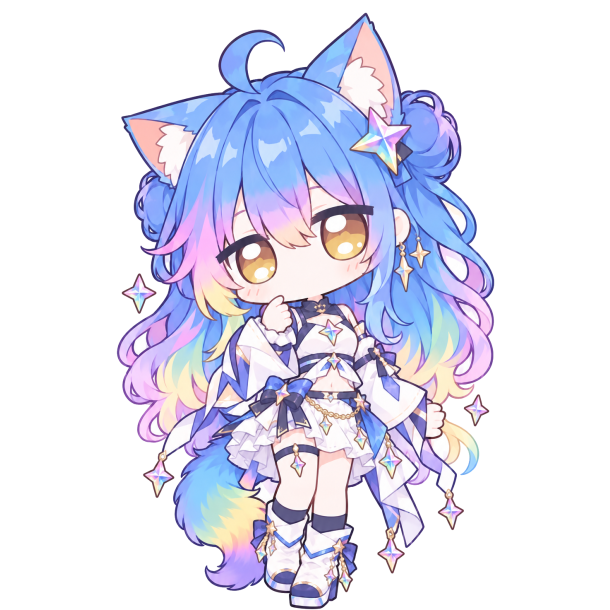
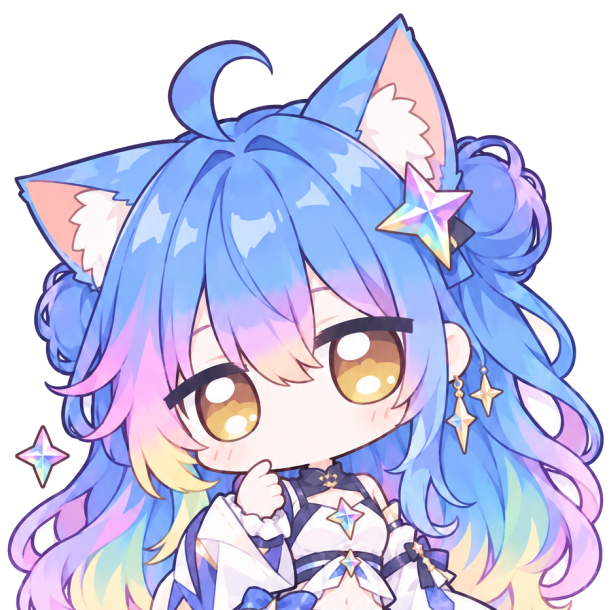
feat(role): 哈基米改成半身取景 + 彩色渐变配色（装饰件）
- 立绘重新裁切：按其余内置角色的取景（头 + 上胸的**半身**，内容近正方形，
  610×610 画布、内容高 98%、底对齐）重做 assets/gemini.png——原先那张是
  379×598 的全身像，与其它角色的观感不一致。裁切下界用「内容刚变成正方形」
  的那一行定（头 + 上胸），抠底仍走边缘泛洪（角色内部的白色衣物保留）。
- 彩色渐变配色：新增 ROLE_INK_GRADIENT（按角色 id 声明，浅/深两档色标数组），
  哈基米的色标取自她自己的发色——从新给的全身参考图按色相分桶采样，沿角色配色
  顺序排成 蓝 → 紫 → 粉 → 黄（浅 #7cbfef→#76a1eb→#957ac4→#d798e2→#f2d39b，
  深档同色相提亮）。
- **只有装饰件吃渐变**：气泡描边（气泡 SVG 内新增 zcwInkGrad，applyBubbleInk
  写色标并把 --zcw-bubble-ink 换成 url(#zcwInkGrad)）、额度卡进度条、菜单按钮
  条纹、勾选框填充、滑块圆点、角色行圆点与配色弹层色板。正文与各档描边/小字
  仍走 inkPairOf 的实色（渐变不能作 color，正文还要按 4.5:1 派生——与 U31
  「正文 vs 装饰件」的既有拆分一致）。填充一律「实色兜底 + background-image
  长属性」，保证不支持时观感不变；qbar 的琥珀/红档用 shorthand 覆盖，正好保住
  警告与限流语义。
- 手动优先：用户在配色弹层给某角色定过色（inkOverrides 有该角色）时整条渐变
  不生效，回实色；弹层里只要该档还是内置值，色板就显示渐变（与生效值一致）。
- 测试：selftest 337（新增 3 条：色标齐备合法且确实是渐变、只有内置角色能声明、
  接线只进装饰件不动正文）、smoke-ui 112（新增 2 条真机对照：哈基米 → 描边是
  url(#zcwInkGrad) 且装饰件变量是 linear-gradient；大肥鱼 → 变量清空、描边回实色）。

diff --git a/lib/widget.js b/lib/widget.js
@@ -122,7 +122,7 @@
     '.zcwv-qcard .zcwv-qrow{display:flex;align-items:center;gap:calc(var(--zcw-u) * 14);margin:calc(var(--zcw-u) * 8) 0}',
     '.zcwv-qcard .zcwv-qname{flex:0 0 auto;width:calc(var(--zcw-u) * 132);text-align:left;font-size:calc(var(--zcw-u) * 38);font-weight:600}',
     '.zcwv-qcard .zcwv-qbar{flex:1;height:calc(var(--zcw-u) * 20);border-radius:calc(var(--zcw-u) * 10);background:var(--zcw-ink-faint);overflow:hidden}',
-    '.zcwv-qcard .zcwv-qbar i{display:block;height:100%;border-radius:inherit;background:var(--zcw-accent)}',
+    '.zcwv-qcard .zcwv-qbar i{display:block;height:100%;border-radius:inherit;background:var(--zcw-accent);background-image:var(--zcw-role-ink-grad,none)}',
     '.zcwv-qcard .zcwv-qbar i.zcwv-qamber{background:var(--zcw-amber)}',
     '.zcwv-qcard .zcwv-qbar i.zcwv-qred{background:var(--zcw-red)}',
     '.zcwv-qcard .zcwv-qpct{flex:0 0 auto;width:calc(var(--zcw-u) * 132);text-align:right;white-space:nowrap;font-size:calc(var(--zcw-u) * 42);font-weight:800;font-variant-numeric:tabular-nums}',
@@ -137,7 +137,7 @@
     // 尺寸变化自动适配
     '.zcwv-menu-btn{position:absolute;top:calc(40.55% + 4px);right:4px;width:clamp(18px,calc(var(--zcw-base) * 0.069),30px);height:clamp(18px,calc(var(--zcw-base) * 0.069),30px);box-sizing:border-box;border:1px solid var(--zcw-ink-soft);border-radius:var(--zcw-radius);background:var(--zcw-btn-bg);cursor:pointer;pointer-events:none;display:flex;flex-direction:column;align-items:center;justify-content:center;gap:4px;padding:0;z-index:2;opacity:0;transition:opacity .15s ease}',
     '.zcwv-menu-btn.zcwv-menu-btn-visible{opacity:1;pointer-events:auto}',
-    '.zcwv-menu-btn span{display:block;width:14px;height:2px;background:var(--zcw-btn-bar);border-radius:1px}',
+    '.zcwv-menu-btn span{display:block;width:14px;height:2px;background:var(--zcw-btn-bar);background-image:var(--zcw-role-ink-grad,none);border-radius:1px}',
     '.zcwv-menu-btn:hover{background:var(--zcw-btn-bg-hover)}',
     // U27：菜单要有高度上限——大字号（scale 2.5）/矮窗口下顶部行会被裁出视口且
     // 无法滚动到；100vh 即页面视口（fixed 定位参照它），80px 留给按钮与上下留白
@@ -184,7 +184,7 @@
     ':root:not(.zcwv-theme-dark) .zcwv-range::-webkit-slider-runnable-track{height:4px;border-radius:2px;' +
       'background:linear-gradient(to right,var(--zcw-accent) 0 var(--zcw-range-pct,50%),rgba(0,0,0,.14) var(--zcw-range-pct,50%) 100%);' +
       'box-shadow:inset 0 0 0 1px rgba(0,0,0,.08)}',
-    ':root:not(.zcwv-theme-dark) .zcwv-range::-webkit-slider-thumb{appearance:none;-webkit-appearance:none;' +
+    ':root:not(.zcwv-theme-dark) .zcwv-range::-webkit-slider-thumb{appearance:none;-webkit-appearance:none;background-image:var(--zcw-role-ink-grad,none);' +
       'width:13px;height:13px;border-radius:50%;background:var(--zcw-accent);border:none;margin-top:-4.5px}',
     // 菜单/面板里的控件统一质感（与一级设置面板同一套 token）：圆角、主题底色、
     // hover 与 focus 反馈。原生 select 的箭头用 appearance:none 去掉后自绘——
@@ -351,7 +351,7 @@
     // 勾选态改为「角色色填充 + 底板色对勾」。深色档保持原生绘制（不动）。
     ':root:not(.zcwv-theme-dark) .zcwv-check{appearance:none;-webkit-appearance:none;position:relative;' +
       'box-sizing:border-box;border:1px solid var(--zcw-ink-input);border-radius:4px;background:var(--zcw-card)}',
-    ':root:not(.zcwv-theme-dark) .zcwv-check:checked{background:var(--zcw-accent);border-color:var(--zcw-accent)}',
+    ':root:not(.zcwv-theme-dark) .zcwv-check:checked{background:var(--zcw-accent);background-image:var(--zcw-role-ink-grad,none);border-color:var(--zcw-accent)}',
     // 对勾颜色按勾选底色的明暗二选（applyBubbleInk 写 --zcw-check-mark）：写死
     // 白勾时，kimi娘这种浅色填充上的勾约 2.3:1，勾没勾只能靠底色深浅猜
     ':root:not(.zcwv-theme-dark) .zcwv-check:checked::after{content:"";position:absolute;left:4px;top:1px;' +
@@ -853,6 +853,44 @@
     xiaoke: { light: '#d97757', dark: '#d97757' }, // 小克：陶土橘（浅/深两档同色）
     gemini: { light: '#5b7cdd', dark: '#a9c1f7' }, // 哈基米：长春花蓝发色（2026-10-15 立绘取样均值 #6a88de）
   }
+  // 角色彩色渐变（可选，2026-10-16 加）：只作用于**装饰件**——气泡描边（SVG 渐变）、
+  // 额度卡进度条、菜单按钮条纹、勾选框填充、滑块圆点、角色行圆点；正文与各档
+  // 描边/小字仍走 inkPairOf 的实色（渐变不能作 color，且正文要按 4.5:1 派生）。
+  // 用户在配色弹层给该角色定过色（inkOverrides 有该角色）时整条渐变不生效——手选优先。
+  // 色标取自角色立绘本身：哈基米按色相分桶采样她的发色（蓝 → 紫 → 粉 → 黄，
+  // 深档 = 同色相提亮，与其余角色「深色档更淡更亮」的观感一致）。
+  var ROLE_INK_GRADIENT = {
+    gemini: {
+      light: ['#7cbfef', '#76a1eb', '#957ac4', '#d798e2', '#f2d39b'],
+      dark: ['#a7d4f5', '#a5c1f2', '#b8a3d9', '#e4b5d3', '#f6e4b6'],
+    },
+  }
+  function inkGradientStops(id) {
+    if (inkOverrides[id]) return null
+    var g = ROLE_INK_GRADIENT[id]
+    if (!g) return null
+    var stops = themeIsDark() ? g.dark : g.light
+    return Array.isArray(stops) && stops.length >= 2 ? stops : null
+  }
+  function inkGradientCss(stops) {
+    return 'linear-gradient(135deg, ' + stops.join(', ') + ')'
+  }
+  // 把色标写进气泡 SVG 的 zcwInkGrad：stops 数量可以少于 defs 里的 5 个槽位，
+  // 多余的槽位统一取最后一个色（offset 也压到 100%），保证渐变首尾仍然铺满。
+  // 用 document.querySelector 而不是 bubbleBox 变量：本函数可能在气泡 DOM 建好
+  // 之前就被 applyBubbleInk 调到（初始化顺序），那时 bubbleBox 还是 undefined。
+  function paintInkGradientDefs(stops) {
+    var nodes = document.querySelectorAll('#zcwInkGrad .zcwv-inkstop')
+    if (!nodes.length) return false
+    for (var i = 0; i < nodes.length; i++) {
+      var last = i >= stops.length - 1
+      var color = last ? stops[stops.length - 1] : stops[i]
+      nodes[i].setAttribute('stop-color', color)
+      var offset = stops.length > 1 ? Math.min(i, stops.length - 1) / (stops.length - 1) : 0
+      nodes[i].setAttribute('offset', String(last ? 1 : offset))
+    }
+    return true
+  }
 
   // ---------- WCAG 对比度工具（U31） ----------
   // 浅色档整套界面的正文色直接取角色浅色墨色，而 kimi娘 #ad81ff 对白底只有
@@ -916,6 +954,15 @@
       var ink = dark ? pair.dark : pair.light
       var st = document.documentElement.style
       st.setProperty('--zcw-bubble-ink', ink)
+      // 彩色渐变角色（哈基米那种）：气泡描边改走 SVG 渐变，装饰件走 CSS 渐变变量；
+      // 正文（--zcw-bubble-text*）与各档描边仍由上面的实色派生，保证可读性
+      var gradStops = inkGradientStops(roleId)
+      if (gradStops && paintInkGradientDefs(gradStops)) {
+        st.setProperty('--zcw-bubble-ink', 'url(#zcwInkGrad)')
+        st.setProperty('--zcw-role-ink-grad', inkGradientCss(gradStops))
+      } else {
+        st.removeProperty('--zcw-role-ink-grad')
+      }
       if (dark) {
         // 深色：主文字与描边同色；小字按透明度淡化（原来就是 rgba 淡出）
         st.setProperty('--zcw-bubble-text', ink)
@@ -1272,6 +1319,9 @@
       inkBtn.title = '自定义这个角色的气泡配色（调色板 / HEX / RGB）'
       var inkDot = el('span', 'zcwv-inkdot')
       inkDot.style.background = inkPairOf(r.id).light
+      // 彩色渐变角色：圆点也显示渐变（用户给该角色定过色则回到实色，手选优先）
+      var dotGrad = inkOverrides[r.id] ? null : ROLE_INK_GRADIENT[r.id]
+      if (dotGrad) inkDot.style.backgroundImage = inkGradientCss((themeIsDark() ? dotGrad.dark : dotGrad.light))
       inkBtn.appendChild(inkDot)
       inkBtn.addEventListener('click', function (e) {
         e.stopPropagation()
@@ -1529,6 +1579,9 @@
       var sw = el('button', 'zcwv-inksw')
       sw.type = 'button'
       sw.style.background = pair[part]
+      // 该档仍是内置值（没被手选覆盖）且角色有渐变时，色板显示渐变——与生效值一致
+      var swGrad = !ov[part] && ROLE_INK_GRADIENT[role.id] ? ROLE_INK_GRADIENT[role.id][part] : null
+      if (swGrad) sw.style.backgroundImage = inkGradientCss(swGrad)
       sw.title = '打开调色板（拖动选色）'
       var txt = el('input', 'zcwv-input zcwv-inkhex')
       txt.type = 'text'
@@ -2360,9 +2413,15 @@
   textBox.appendChild(qcardEl)
 
   var bubbleBox = el('div', 'zcwv-bubble')
-  // 气泡几何与上游一致：viewBox 1026x700，大椭圆 + 尾巴半椭圆 + 两个小气泡
+  // 气泡几何与上游一致：viewBox 1026x700，大椭圆 + 尾巴半椭圆 + 两个小气泡。
+  // defs 里的 zcwInkGrad 给「彩色渐变角色」的气泡描边用（applyBubbleInk 写色标，
+  // 并把 --zcw-bubble-ink 换成 url(#zcwInkGrad)）；非渐变角色这个渐变不会被引用。
   bubbleBox.innerHTML =
     '<svg viewBox="0 0 1026 700" preserveAspectRatio="xMidYMid meet" xmlns="http://www.w3.org/2000/svg">' +
+    '<defs><linearGradient id="zcwInkGrad" x1="0" y1="0" x2="1" y2="1">' +
+    '<stop class="zcwv-inkstop" offset="0"></stop><stop class="zcwv-inkstop" offset="0.25"></stop>' +
+    '<stop class="zcwv-inkstop" offset="0.5"></stop><stop class="zcwv-inkstop" offset="0.75"></stop>' +
+    '<stop class="zcwv-inkstop" offset="1"></stop></linearGradient></defs>' +
     '<path class="zcwv-bshape" fill="#FFFFFF" stroke="#203170" stroke-width="18" stroke-linejoin="round" stroke-linecap="round" d="M 827 248 A 373 232 0 1 0 81 246 A 373 232 0 0 0 301 465 A 57 32 10 0 0 413 484 A 373 232 0 0 0 827 248 Z"/>' +
     '<ellipse class="zcwv-b1" cx="352" cy="561" rx="37.5" ry="26" fill="#FFFFFF" stroke="#203170" stroke-width="18"/>' +
     '<ellipse class="zcwv-b2" cx="442" cy="646" rx="24.5" ry="18" fill="#FFFFFF" stroke="#203170" stroke-width="18"/>' +
